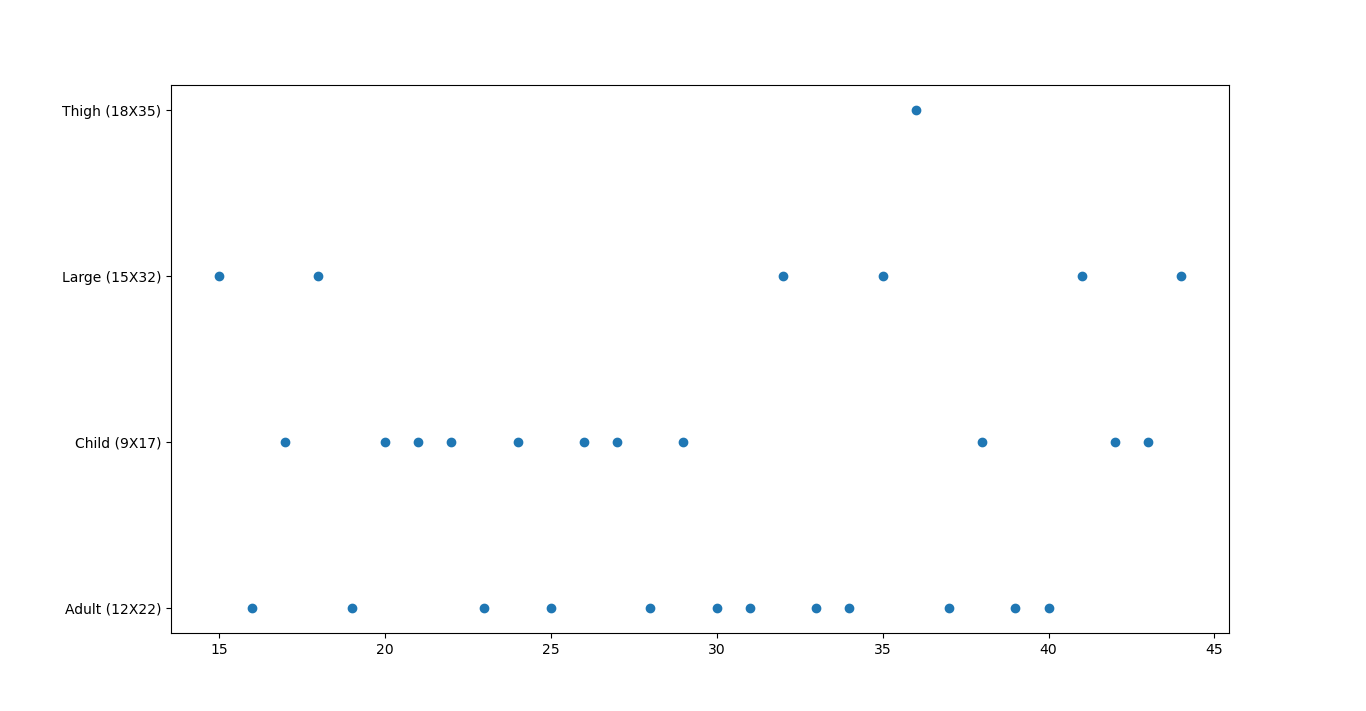
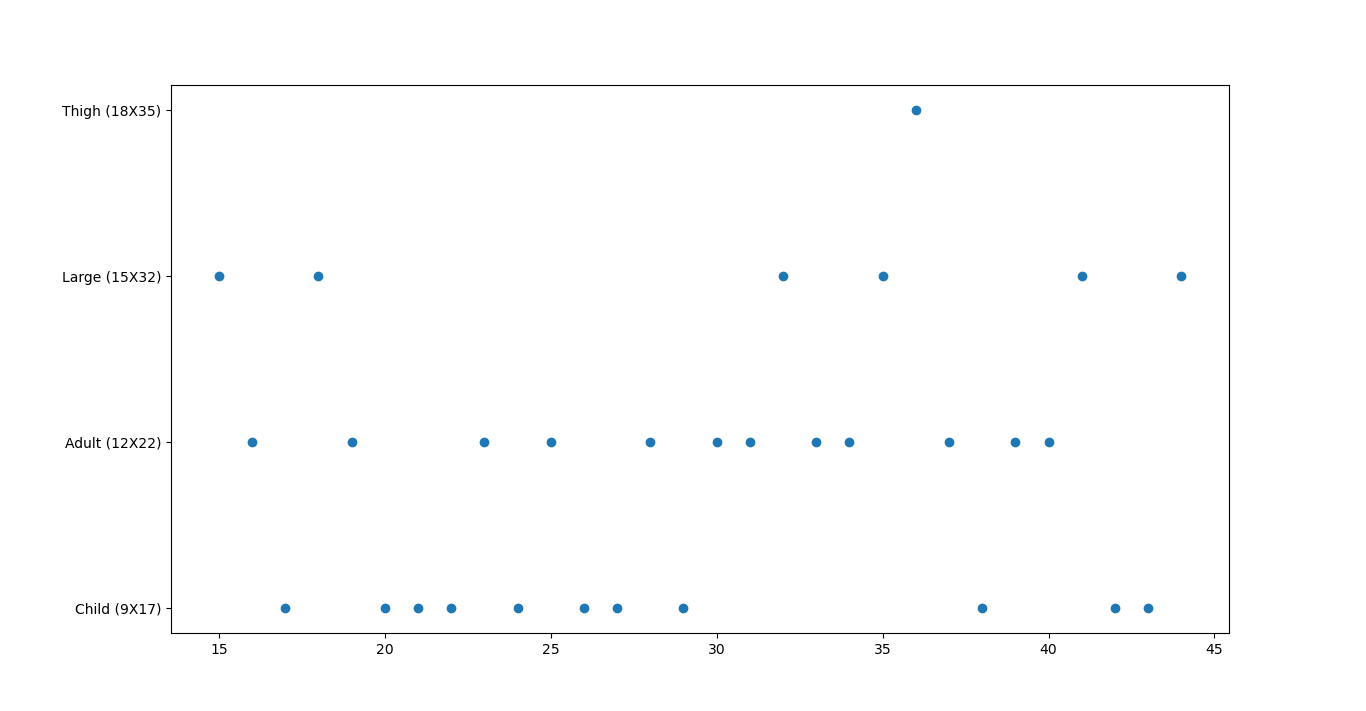
PROJECT DONE!!!

diff --git a/main.py b/main.py
@@ -1185,11 +1185,24 @@ for index, row in enumerate(ec_bp_d_merge["Mother's Age When Born"]):
             two_dimension_array[row] = ec_bp_d_merge["Coded Cuff Size"][index]
             ##print("Not accepted integer row", row)
     
+    
+    
+sorted_array = {} 
 
 
+labels = ['Child (9X17)', 'Adult (12X22)', 'Large (15X32)', 'Thigh (18X35)'] 
 
-print(two_dimension_array)
-print(len(two_dimension_array))
+
+for label in labels: 
+    for key in two_dimension_array.keys():
+        if two_dimension_array[key] == label:
+            sorted_array[key] = label
+
+print(sorted_array)
+print(len(sorted_array))
+
+##print(two_dimension_array)
+##print(len(two_dimension_array))
     ##print(row)
     ##print(index)
 
@@ -1215,7 +1228,7 @@ fig, ax = plt.subplots()
 ##ax.hist(ec_bp_d_merge['Gender'])
 ##plt.show()
 
-ax.scatter(two_dimension_array.keys(), two_dimension_array.values())
+ax.scatter(sorted_array.keys(), sorted_array.values())
 plt.show()
 
 
